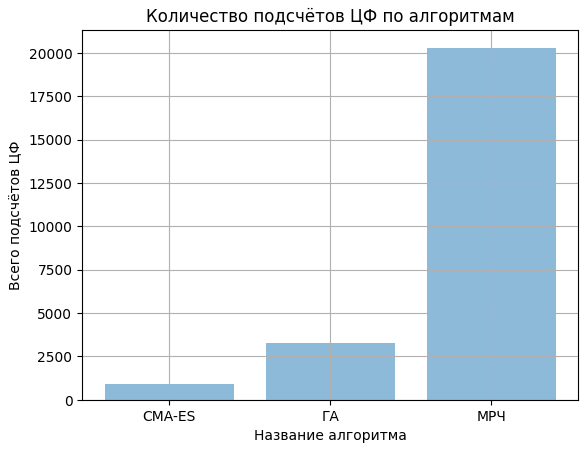
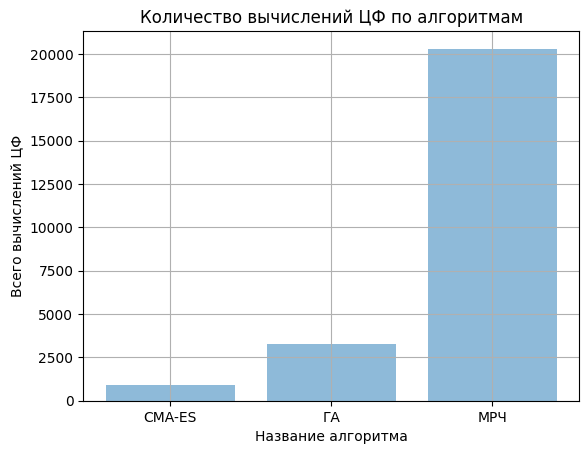
fixes done

Changed region(s): [[0.0, 0.0, 1.0, 0.9933], [0.6769, 0.7761, 0.7385, 0.8071]]

diff --git a/vkr/my_folder/chapter1.tex b/vkr/my_folder/chapter1.tex
@@ -8,7 +8,7 @@
 На сегодняшний день уже существуют различные способы решения проблемы расчётов режимов СО. У каждого из способов есть свои преимущества и недостатки. Естественно заметить, что длительности действия сигналов светофоров должны устанавливаться в соответствии имеющимся на дорожном участке потоком машин.\\
 Например, в \cite{fuzzy-logic} предлагается следующий подход. Каждому из перекрестков на дорожном участке ставится в соответствие светофорный объект. Для каждого СО вводятся два т.н. агента:
 \begin{itemize}
-	\item Первый агент отвечает за изменение последовательностей фаз СО. Использует Deep Q-Learning Algorithm.
+	\item Первый агент отвечает за изменение последовательностей фаз СО. Использует Q-Learning \cite{Q-learning-ref} - один из видов машинного обучения с подкреплением;
 	\item Второй агент отвечает за изменение длительности действия зелёного сигнала. Использует алгоритм, основанный на нечеткой логике.
 \end{itemize}
 Подход применяется к каждому отдельно взятому СО. Данные о дорожном трафике контролируются камерами наблюдения, установленными на каждом из перекрестков.\\
@@ -16,23 +16,35 @@
 Вместо микромоделирования реализован следующий подход: на основании исторических данных о дорожном трафике предлагается предсказать, какое количество ТС пересечёт перекрёсток в течение действия каждой из фаз в будущем, и использовать эти данные на каждом шаге изложенного в работе алгоритма.\\
 Ещё одним вариантом решения проблемы является подход, представленный в  \cite{machine-learning}. Выполняется микромоделирование трафика на дорожном участке при помощи TSF-модели \cite{gora-tsf}. К сожалению, с расширением дорожной сети время вычисления ЦФ кратно увеличивается, поэтому для его снижения используются суррогатные модели на основе нейросети или модели, построенные при помощи градиентного бустинга \cite{grad-boosting}. Оптимизация длительностей фаз производится алгоритмами оптимизации, такими как генетический алгоритм, метод имитации отжига и др.\\
 Трафик предлагается моделировать при помощи данных, собранных спутниками,  или при помощи Floating Car Data (FCD).\\
-Подход, описанный в \cite{Sun2006BilevelPF}, представляет проблему расчётов режимов СО как двухуровневую задачу оптимизации. Задачей верхнего уровня является расстановка длительностей действия сигналов, а задачей нижнего уровня - распределение маршрутов ТС с помощью Logit-модели принятия решений.\\
-Примером подходов с весьма значительными допущениями, такими как:
+Подход, описанный в \cite{Sun2006BilevelPF}, представляет проблему расчётов режимов СО как двухуровневую задачу оптимизации. Задачей верхнего уровня является расстановка длительностей действия сигналов, а задачей нижнего уровня - распределение маршрутов ТС с помощью Logit-модели принятия решений. Данные о трафике представлены в виде матрицы корреспонденций.\\
+Методологии, предложенные в статьях \cite{Chen2007AlgorithmsFT} и \cite{PSO-weak}, похожи и заключаются в следующем: 
 \begin{itemize}
-	\item Прохождение только одной машины через перекресток в текущий момент времени.
-	\item Ограничение на количество сигналов: только красный и зелёный.
-	\item Ограничение на количество дорожных полос.
-	\item Обязательное равенство времени действия красного и зелёного сигналов.
-	\item Ограничение на количество фаз: две.
-	\item Обязательное равенство длительностей фаз.
+	\item Дорожная сеть задана с помощью ориентированного графа;
+	\item Поток ТС задаётся при помощи дискретных моделей. Авторы статьи \cite{PSO-weak} используют для задания потока ТС NaSch модель \cite{Na-Sch-ref} с модификациями;
+	\item В работе \cite{Chen2007AlgorithmsFT} команда исследователей предлагает собственную дискретную модель:
+	\begin{itemize}
+		\item Перед каждым перекрестком для каждой из дорожных полос входящий поток машин задаётся при помощи массива из нулей и единиц;
+		\item Единица означает, что на текущей "единице дистанции" $ $ есть ТС, 0 означает, что ТС на ней отсутствует;
+		\item Каждое ТС проезжает одну "единицу дистанции" $ $ за одну "единицу времени".
+	\end{itemize}
+	\item Если ТС простаивает во время активности красного сигнала СО или из-за впереди стоящих ТС, то генерируется штраф;
+	\item Целевой функцией является сумма всех штрафов для всех машин. Минимизируется ЦФ при помощи эвристических алгоритмов оптимизации: генетический алгоритм, алгоритм колонии муравьев, метода роя частиц и пр.
 \end{itemize}
-являются статьи \cite{Chen2007AlgorithmsFT} и \cite{PSO-weak}.\\
+
+Имеют место значительные допущения:
+\begin{itemize}
+	\item Допустимы только красный и зелёный сигналы СО;
+	\item Обязательно равные длительности действия сигналов СО;
+	\item Каждая из дорог может иметь только две полосы;
+	\item В работе \cite{PSO-weak} реализовано только однополосное движение.
+\end{itemize}
+\newpage
 В данной работе предлагается избавиться от недостатков подходов к решению проблемы, описанных выше, следующим образом:
 \begin{itemize}
-		\item Построить точную микромодель. Поток ТС смоделировать на основании реальных данных, полученных с дорожных радиодетекторов. Расстановки сигналов СО, времена длительностей фаз построить по паспортам СО. Данные о дорожной разметке на исследуемом участке взять из открытых источников (Google Maps, Яндекс Карты).
-		\item Не использовать суррогатные модели, чтобы не терять в точности полученного решения. Для приемлемого времени работы алгоритмов не использовать модели больших дорожных участков.
-		\item Снять ограничения на длительности фаз, количество и цвет сигналов.
-		\item Использования наиболее эффективной модели движения автомобильного трафика "разумного водителя" $ $ (Intelligent Driver Model, IDM).
+		\item Смоделировать исследуемый участок дороги при помощи фреймворка SUMO. Данные о дорожной разметке на взять из открытых источников (Google Maps, Яндекс Карты). Поток ТС задать с помощью реальных данных, полученных с дорожных радиодетекторов. Расстановки сигналов (состояния) взять из паспортов СО;
+		\item Не использовать суррогатные модели, чтобы не терять в точности полученного решения. Для приемлемого времени работы алгоритмов не использовать модели больших дорожных участков;
+		\item Снять ограничения на длительности фаз, количество и цвет сигналов;
+		\item Использовать наиболее реалистичную модель движения автомобильного трафика "разумного водителя" $ $ (Intelligent Driver Model, IDM \cite{book-Gasnikov}).
 \end{itemize}
 \newpage
 \section{Задание дорожной сети}
@@ -75,19 +87,19 @@
 \end{m-definition}
 Введём три вида сигналов:
 \begin{itemize}
-	\item \textit{Красный} - предупреждает о том, что движение потока ТС должно быть приостановлено в течение времени активности сигнала.
-	\item \textit{Желтый} - информирует о предстоящей смене красного сигнала на зелёный.
-	\item \textit{Зелёный} - разрешает дальнейшее движение ТС по дорожной сети.
+	\item \textit{Красный} - предупреждает о том, что движение потока ТС должно быть приостановлено в течение времени активности сигнала;
+	\item \textit{Желтый} - информирует о предстоящей смене красного сигнала на зелёный;
+	\item \textit{Зелёный} - разрешает дальнейшее движение ТС по соответствующей дорожной полосе.
 \end{itemize}
 
 Объединим сигналы в множество $\mathcal{L} = \{ l_i \}, \ i = 1, \ldots, M, \ M \in \mathbb{N}.$\\
 Для уточнения, каким образом сигналы управляют потоком на инцидентных входящих дугах, введём определение фазы.
 \begin{m-definition}
-	Фаза - это пара, содержащая \textit{состояние} $l$-го светофорного объекта, поддерживаемое СО в течение времени действия фазы $t_{lk}$, и само время действия фазы $t_{lk}$, где $k$ - номер фазы $k \in 0, \ldots, K$. 
+	Фаза $p_{lk}$- это $k$-ое, $ k \in 0, \ldots, K, k \in \mathbb{N}$ \textit{состояние} $l$-го СО, поддерживаемое в течение времени $t_{lk}$, \ $t_{\min} \leq t_{lk} \leq t_{\max}$, \ $[t_{lk}] = \text{с}$.
 \end{m-definition}
-Допустимо различное количество фаз для различных светофоров.
+Допустимо различное количество фаз для различных СО.
 \begin{m-definition}
-	Под \textit{состоянием} понимается совокупность влияний сигнала $l_i$ на дуги $e_j, \  j \in \{1,\ldots, N\}$ в фазе $t_{lk}$, $t_{\min} \leq t_{lk} \leq t_{\max}$, \ $[t_{lk}] = \text{с}$.\\
+	Под \textit{состоянием} понимается совокупность влияний сигнала $l_i$ на инцидентные входящие в $l$-ый СО дуги $e_j$ в фазе $p_{lk}$.\\
 \end{m-definition}
 Предлагается применить алгоритмы оптимизации к временам действия фаз $t_{lk}$.\\
 \input{my_folder/tex/separate-states-three-in-one} 
@@ -96,17 +108,18 @@
 		\scriptstyle l & \scriptstyle \in 1,\ldots, N,\\
 		\scriptstyle k & \scriptstyle \in 0, \ldots, K
 \end{aligned}}, X \in \mathbb{R}^{N\times K}$ вектор, содержащий длительности фаз светофорных объектов.\\
+\newpage
 Введём:
 \begin{itemize}
-	\item $T$ - продолжительность времени симуляции трафика.
-	\item $N$ - количество ТС, преодолевших полные намеченные пути (маршруты) за время $T$.
+	\item $T$ - продолжительность времени симуляции трафика, $[T] = \text{с}$.
+	\item $\mathcal{N}$ - количество ТС, преодолевших полные намеченные пути (маршруты) за время $T$.
 \end{itemize}
 \begin{m-definition}
 	\textit{Временем ожидания} (\textit{простоя}) $\tau_i(X)$ $i$-ого ТС назовём время, в течение которого скорость $v$ ТС удовлетворяет ограничению $v < 0.1 \ \frac{\text{м}}{\text{c}}$.\\
 \end{m-definition}
 Пусть $\tau_i$ - время ожидания $i$-ой машины. Тогда
 \begin{equation}
-	\displaystyle f(X) = \frac{\sum\limits_{i = 1}^{N}\tau_i}{N}
+	\displaystyle f(X) = \frac{\sum\limits_{i = 1}^{\mathcal{N}}\tau_i}{\mathcal{N}}
 \end{equation} - функция цели.
 Тогда в финальном виде задача оптимизации будет выглядеть следующим образом:
 \begin{equation}

diff --git a/vkr/my_folder/chapter5.tex b/vkr/my_folder/chapter5.tex
@@ -12,12 +12,12 @@
 \input{my_folder/tex/detectors-positions.tex}
 \input{my_folder/tex/sumo-gui-roadmap}
 \newpage
-На \firef{fig:detectors-setting} желтым обозначены позиции детекторов, содерщащих информацию о количестве машин в вершинах-источниках и вершинах-стоках.
+На \firef{fig:detectors-setting} желтым обозначены позиции детекторов, содержащих информацию о количестве машин в вершинах-источниках и вершинах-стоках.
 \input{my_folder/tex/detectors-setting}
 
 \subsection{Определение состояний}
 Информация о направлениях движения, регулируемых светофорными объектами 1 и 2, представлена в паспортах СО соответственно.\\
-Отметим, что оптимизация фаз, связанных с движением пешеходов, не производится. Время, отведённое под движение пешеходов,взято как исходное константное значение из паспорта.
+Отметим, что оптимизация фаз, связанных с движением пешеходов, не производится. Время,  отведённое под движение пешеходов,взято как исходное константное значение из паспорта.
 
 На \firef{fig:linked-phase-d} представлены направления пешеходного движения.\\
 \input{my_folder/tex/linked-md-four-in-one.tex}
@@ -28,16 +28,16 @@
 
 \newpage
 \section{Результаты оптимизации}
-В таблице \taref{tab:opt-res} отображены результаты запусков алгоритмов оптимизации.\\
+В таблице \taref{tab:opt-res} отображены результаты работы алгоритмов оптимизации.\\
 В заголовке таблицы использованы следующие обозначения:
 \begin{itemize}
-	\item Наз.алг - название алгоритма.
-	\item $X_{opt}$ - решение задачи оптимизации \labelcref{eq:goal-function}.
-	\item  $f(X_{opt})$ - значение ЦФ в $X_{opt}$, [c].
-	\item $I$ - количество итераций (поколений, популяций).
-	\item $N_{f}$ - количество подсчётов ЦФ.
-	\item $T_{\text{общ}}$ - общее время работы алгоритма [c].
-	\item $T_{i}$ - среднее время подсчётов ЦФ на текущей итерации [c].
+	\item Наз.алг - название алгоритма;
+	\item $X_{opt}$ - решение задачи оптимизации \labelcref{eq:goal-function};
+	\item  $f(X_{opt})$ - значение ЦФ в $X_{opt}$, [c];
+	\item $I$ - количество итераций (поколений, популяций);
+	\item $N_{f}$ - количество вычислений ЦФ;
+	\item $T_{\text{общ}}$ - общее время работы алгоритма [c];
+	\item $T_{i}$ - среднее время вычислений ЦФ на текущей итерации [c];
 	\item $N_{e}$ - количество машин, к концу симуляции завершивших намеченные маршруты.
 \end{itemize}
 Заметим, что на основе паспортов СО длительности фаз выглядят следующим образом:\begin{equation}
@@ -45,50 +45,49 @@
 \end{equation}
 Количество машин, предзагруженных в симуляцию на основе данных с детекторов, $N_c = 5959$.\\
 Временной интервал симуляции: 06:00-09:00, время по счётчику SUMO --begin 0 --end 10800 (3ч).\\
+Ограничения задачи - интервал возможной длительности сигналов СО задан следующим образом: $[t_{\min}, t_{\max}] = [20, 70]$.\\
 \input{my_folder/tex/tab-opt-res.tex}
 \input{my_folder/tex/plot-hist-opt.tex}
 \newpage
 \section{Выводы} \label{ch4:conclusion}
 
-По \taref{tab:opt-res} естественно заметить, что от эксперимента к эксперименту количество  хромосом, частиц, решений могло меняться для ГА, МРЧ, CMA-ES соответственно. Без потери смысловой нагрузки произведем сравнение подсчётов ЦФ в алгоритмах.\\
+По \taref{tab:opt-res} естественно заметить, что от эксперимента к эксперименту количество  хромосом, частиц, решений могло меняться для ГА, МРЧ, CMA-ES соответственно. Без потери смысловой нагрузки произведем сравнение количества вычислений ЦФ в алгоритмах.\\
 Поэтому разумно представить гиперпараметры, общие для всех вариантов запуска алгоритмов.\\
 Гиперпараметры ГА при запуске:
 \begin{itemize}
-	\item Количество скрещивающихся родителей - половина от общего числа популяции.
-	\item Мутация - случайная.
+	\item Количество скрещивающихся родителей - половина от общего числа популяции;
+	\item Мутация - случайная;
 	\item Шанс мутации - $10\%$.
 \end{itemize}
 Гиперпараметры МРЧ при запуске:
 \begin{itemize}
-	\item $\omega = 0.5069$, $\varphi_p = 2.5524$, $\varphi_g = 1.0056$.
+	\item $\omega = 0.5069$, $\varphi_p = 2.5524$, $\varphi_g = 1.0056$;
 	\item $S = 203$.
 \end{itemize}
 Гиперпараметры CMA-ES при запуске:
 \begin{itemize}
-	\item $\sigma_0 = 5$.
+	\item $\sigma_0 = 5$;
 	\item $X_0 = [65, 35, 20, 40, 22, 34]$. Здесь $X_0$ - начальное решение.
 \end{itemize}
+\newpage
 Из \taref{tab:opt-res} видно, что:
 \begin{itemize}
-	\item Лучшее решение было получено при помощи алгоритма МРЧ $f(X_{opt}) = 60.2$
-	\item Лучшее решение МРЧ получено при установке гиперпараметров на основании \taref{tab:tab-pso-opt-params} с
-	 $50\%$ увеличением количества подсчётов ЦФ.
-	 \item Самое оптимальное решение, полученное при помощи МРЧ, требует в $\approx 13.5$ больше подсчётов ЦФ, чем самое оптимальное решение, полученное при помощи CMA-ES.
-	 \item Самое оптимальное решение, полученное при помощи МРЧ, требует в $4.64$ раз больше подсчётов ЦФ, чем самое оптимальное решение, полученное при помощи ГЕН.
-	 \item Самое оптимальное решение, полученное при помощи МРЧ, на $\approx 1.75\%$ лучше, чем самое оптимальное решение, полученное при помощи CMA-ES.
-	 \item Самое оптимальное решение, полученное при помощи МРЧ, на $\approx 3.79\%$ лучше, чем самое оптимальное решение, полученное при помощи ГЕН.
-	%\item МРЧ требует в $\approx 11.2$ раз больше подсчётов ЦФ по сравнению с CMA-ES, но выдаёт более %точное решение на $2,1\%$.
-	\item В порядке использования вычислительно-временных ресурсов алгоритмы располагаются следующим образом :
-	CMA-ES, ГА, МРЧ от лучшего к худшему.
+	\item Лучшее решение было получено при помощи алгоритма МРЧ $f(X_{opt}) = 60.2$;
+	\item Лучшее решение МРЧ получено при установке гиперпараметров на основании \taref{tab:tab-pso-opt-params} с $50\%$ увеличением количества вычислений ЦФ;
+	\item Самое оптимальное решение, полученное при помощи МРЧ, требует в $\approx 13.5$ больше вычислений ЦФ, чем самое оптимальное решение, полученное при помощи CMA-ES;
+	\item Самое оптимальное решение, полученное при помощи МРЧ, требует в $4.64$ раз больше вычислений ЦФ, чем самое оптимальное решение, полученное при помощи ГА;
+	\item Самое оптимальное решение, полученное при помощи МРЧ, на $\approx 1.75\%$ лучше, чем самое оптимальное решение, полученное при помощи CMA-ES;
+	\item Самое оптимальное решение, полученное при помощи МРЧ, на $\approx 3.79\%$ лучше, чем самое оптимальное решение, полученное при помощи ГА;
+	\item В порядке использования вычислительно-временных ресурсов алгоритмы располагаются следующим образом : CMA-ES, ГА, МРЧ от лучшего к худшему;
 	\item В порядке качества полученного решения алгоритмы располагаются 
 	МРЧ, CMA-ES, ГА,  от лучшего к худшему.
 \end{itemize}
-Графики \firef{fig:ch-wd}, \firef{fig:hist-wd}, \firef{fig:hist-times-wd} построены на основании данных из \taref{tab:opt-res} при $I = 100$. График генетического алгоритма построен на данных, полученных при подсчёте ЦФ $f(X_{opt}) = 62.39$ из таблицы.\\
+Графики \firef{fig:ch-wd}, \firef{fig:hist-wd}, \firef{fig:hist-times-wd} построены на основании данных из \taref{tab:opt-res} при $I = 100$. График генетического алгоритма построен на данных, полученных в процессе вычисления значения ЦФ $f(X_{opt}) = 62.39$ из таблицы.\\
 \firef{fig:ch-wd} является наглядным представлением требования МРЧ большого количества вычислительных ресурсов.
 Результаты, полученные на выходе алгоритмов оптимизации в сравнении с \eqref{eq:src}, представляют возможность сделать следующие выводы:
 \begin{itemize}
-	\item Лучшее решение, полученное с помощью МРЧ, лучше исходного на $18 \%$.
-	\item Лучшее решение, полученное с помощью CMA-ES, лучше исходного на $ 16.5\%$.
+	\item Лучшее решение, полученное с помощью МРЧ, лучше исходного на $18 \%$;
+	\item Лучшее решение, полученное с помощью CMA-ES, лучше исходного на $ 16.5\%$;
 	\item Лучшее решение, полученное с помощью ГА, лучше исходного на $ 15\%$.
 \end{itemize}
 %% Вспомогательные команды - Additional commands

diff --git a/vkr/my_folder/chapter3.tex b/vkr/my_folder/chapter3.tex
@@ -7,8 +7,8 @@
 Предобработка данных производилась средствами языка Python 3.11.8.
 Применены библиотеки:
 \begin{itemize}
-	\item \textbf{pandas} - для форматирования, валидации и  объемов данных.
-	\item \textbf{csv} - для работы с исходными файлами, содержащими данные, в формате csv.
+	\item \textbf{pandas} - для форматирования и валидации объемов данных;
+	\item \textbf{csv} - для вывода обработанных данных, используемых для создания симуляции.
 \end{itemize}
 \section{Алгоритмы оптимизации}
 \begin{itemize}
@@ -17,29 +17,28 @@
 \section{Симуляция движения ТС}
 Реализована на базе фреймворка SUMO.
 \begin{itemize}
-	\item \textbf{dfrouter} - скрипт для создания путей (маршрутов) по информации о местоположении детекторов, с которых были собраны данные о трафике.
-	\item \textbf{osmWebWizard} - инструмент для "one-click" конвертации реальной дорожной карты в $G(V, E)$.
-	\item \textbf{netedit} - инструмент для редактирования результатов работы osmWebWizard, а также добавления светофорной логики, мест установки детекторов на карту.
-	\item \textbf{sumo} - инструмент для запуска симуляции с заданными маршрутами, дорожной картой и сгенерированными длительностями фаз СО $X$. Результатом работы sumo являются данные о значении целевой функции и другие параметры для оценки сгенерированного решения $X$.
+	\item \textbf{dfrouter} - скрипт для создания путей (маршрутов) по информации о местоположении детекторов, с которых были собраны данные о трафике;
+	\item \textbf{osmWebWizard} - инструмент для "one-click" $ $ конвертации реальной дорожной карты в $G(V, E)$;
+	\item \textbf{netedit} - инструмент для редактирования результатов работы osmWebWizard, а также добавления светофорной логики, мест установки детекторов на карту;
+	\item \textbf{sumo} - инструмент для запуска симуляции с заданными маршрутами, дорожной картой и сгенерированными длительностями фаз СО $X$. Результатом работы sumo являются данные о значении целевой функции и другие параметры для оценки сгенерированного решения $X$;
 	\item \textbf{sumo-gui} - графическое представление симуляции для визуальной оценки результатов оптимизации.
 	
 \end{itemize}
 
 \section{Общие утилиты и пакеты}	
 \begin{itemize}
-	\item \textbf{xml.etree.ElementTree} - обработка логов \textbf{sumo}.
-	\item  \textbf{os} - для работы с файловой системой ОС.
-	\item \textbf{argparse} - парсинг аргументов командной строки.
-	\item \textbf{subprocess} - для запуска симуляций \textbf{sumo} и работы с оперативной памятью.
+	\item \textbf{xml.etree.ElementTree} - обработка логов \textbf{sumo};
+	\item  \textbf{os} - для работы с файловой системой ОС;
+	\item \textbf{argparse} - парсинг аргументов командной строки;
+	\item \textbf{subprocess} - для запуска симуляций \textbf{sumo} и работы с оперативной памятью;
 	\item \textbf{ProcessPoolExecutor} - для параллельного вычисления ЦФ.
 \end{itemize}
 \section{Аппаратное и программное обеспечения}
 Расчёт режимов работы СО производился при помощи процессора AMD Ryzen 7 PRO 2700 3.2 GHz Eight-Core Sixteen-Thread 16M L3.\\
-Количество потоков, отведённых под работу программ, - 15.
 \begin{itemize}
-	\item Операционная система: Arch Linux                      
-	\item Ядро: Linux 6.8.5-zen1-1-zen
-	\item Разрядность: x86-64
+	\item Операционная система: Arch Linux;                   
+	\item Ядро: Linux 6.8.5-zen1-1-zen;
+	\item Разрядность: x86-64.
 \end{itemize}
 
 \subsection{UML - представление рабочего процесса}

diff --git a/vkr/my_folder/tex/tab-opt-res.tex b/vkr/my_folder/tex/tab-opt-res.tex
@@ -15,13 +15,13 @@
 	CMA-ES&[59, 37, 22, 34, 37, 32]&63.85&250&2250&1004.94&4.02&5472\\ \hline
 	CMA-ES&[58, 40, 20, 39, 32, 34]&65.36&250&2250&998.58&3.99&5314\\ \hline
 	CMA-ES&[56, 35, 27, 25, 41, 38]&65.12&250&2250&985.96&3.94&5186\\ \hline
-	ГЕН&[51, 38, 29, 32, 47, 40]&62.39&100&3281&1372.01&13.72&5407 \\ \hline
-	ГЕН&[55, 43, 20, 52, 27, 38]&64.05&100&2945&1221.41&12.21&5114\\ \hline
-	ГЕН&[60, 37, 21, 37, 37, 43]&63.83&100&3108&1281.66&12.82&5305\\ \hline
-	ГЕН&[51, 34, 33, 39, 41, 37]&63.69&250&7545&3298.57&13.19&5624\\ \hline
-	ГЕН&[57, 35, 23, 40, 38, 39]&64.75&250&7851&3305.79&13.22&5470\\ \hline
-	ГЕН&[55, 34, 29, 29, 45, 43]&62.75&250&7568&3162.45&12.65&5295\\ \hline
-	ГЕН&[58, 40, 20, 28, 47, 42]&62.77&300&8076&3396.7&11.32&5066\\ \hline
+	ГА&[51, 38, 29, 32, 47, 40]&62.39&100&3281&1372.01&13.72&5407 \\ \hline
+	ГА&[55, 43, 20, 52, 27, 38]&64.05&100&2945&1221.41&12.21&5114\\ \hline
+	ГА&[60, 37, 21, 37, 37, 43]&63.83&100&3108&1281.66&12.82&5305\\ \hline
+	ГА&[51, 34, 33, 39, 41, 37]&63.69&250&7545&3298.57&13.19&5624\\ \hline
+	ГА&[57, 35, 23, 40, 38, 39]&64.75&250&7851&3305.79&13.22&5470\\ \hline
+	ГА&[55, 34, 29, 29, 45, 43]&62.75&250&7568&3162.45&12.65&5295\\ \hline
+	ГА&[58, 40, 20, 28, 47, 42]&62.77&300&8076&3396.7&11.32&5066\\ \hline
 	МРЧ&[53, 39, 26, 28, 48, 43]&61.23&50&10150&3932.94&78.66&5221\\ \hline
 	МРЧ&[50, 39, 29, 49, 34, 35]&60.04&50&10150&3917.7&78.35&5602\\ \hline
 	МРЧ&[48, 42, 28, 50, 29, 39]&61.56&50&10150&3922.45&78.45&5358\\ \hline

diff --git a/vkr/my_folder/chapter4.tex b/vkr/my_folder/chapter4.tex
@@ -1,7 +1,7 @@
 \chapter{Сводка данных о трафике} \label{ch4}
 Введём показатели:
 \begin{itemize}
-	\item \textbf{Volume} - интенсивность движения за 5 мин \bigg[$\frac{\text{ед}}{\text{5 мин}}$\bigg].
+	\item \textbf{Volume} - интенсивность движения за 5 мин \bigg[$\frac{\text{ед}}{\text{5 мин}}$\bigg];
 	\item \textbf{Speed} - средняя скорость транспортных средств за 5 мин \bigg[$\frac{\text{км}}{\text{ч}}$\bigg].
 \end{itemize}
 Отметим, что рассматриваются следующие временные интервалы: дата 01.02.2024-21.02.2024, время 06:00-09:00.\\
@@ -12,12 +12,12 @@
 \newpage
 На \firef{fig:900700-time-many-boxplots-vol} отображена интенсивность по будним дням по временным интервалам с 06:00 до 09:00. Частота агрегации - 5 минут.
 \begin{itemize}
-	\item По оси $x$ расположены временные интервалы.
+	\item По оси $x$ расположены временные интервалы;
 	\item По оси $y$ расположены боксплоты, отображающие значения интенсивности в момент времени $x$ по будням.
 \end{itemize}
 На \firef{fig:900700-time-many-boxplots-speed} отображена средяя по будним дням скорость ТС по временным интервалам с 06:00 до 09:00. Частота агрегации - 5 минут.
 \begin{itemize}
-	\item По оси $x$ расположены временные интервалы.
+	\item По оси $x$ расположены временные интервалы;
 	\item По оси $y$ расположены боксплоты, отображающие значения средней скорости в момент времени $x$ по будням.
 \end{itemize}
 \input{my_folder/tex/many-boxplots-time.tex}
@@ -25,12 +25,12 @@
 \input{my_folder/tex/many-boxplots-wd.tex}
 На \firef{fig:900700-wd-many-boxplots-vol} отображены значения интенсивности трафика по будним дням.
 \begin{itemize}
-	\item По оси $x$ расположены дни.
+	\item По оси $x$ расположены дни;
 	\item По оси $y$ расположены значения интенсивности по временным интервалам с 06:00 по 09:00.
 \end{itemize}
 На \firef{fig:900700-wd-many-boxplots-speed} отображены значения средней скорости трафика по будним дням.
 \begin{itemize}
-	\item По оси $x$ расположены дни.
+	\item По оси $x$ расположены дни;
 	\item По оси $y$ расположены значения средней скорости по временным интервалам с 06:00 по 09:00.
 \end{itemize}
 

diff --git a/vkr/my_folder/conclusion.tex b/vkr/my_folder/conclusion.tex
@@ -5,10 +5,10 @@
 Получен программный продукт, позволяющий рассчитать оптимальные длительности фаз светофорных объектов.\\
 На основании реальных данных, таких как:
 \begin{itemize}
-	\item Паспорта СО, содерщащие информацию о текущей длительности фаз.
-	\item Информация об интенсивности и средней скорости на исследуемом дорожном участке, зафиксированная радиодетекторами.
+	\item Паспорта СО, содержащие информацию о состояниях СО, длительностях действия фаз;
+	\item Информация об интенсивности и средней скорости на исследуемом дорожном участке, зафиксированная радиодетекторами;
 	\item Информация о дорожной разметке.
 \end{itemize}
-была построена модель дорожного участка, смоделировано движение автомобильного трафика и исследовано влияние длительностей фаз СО на время среднее простоя автомобиля в пробке. Предложен новый вариант расстановки длительностей фаз СО, который лучше референсного на $18\%$.\\
+была построена модель дорожного участка, задано движение автомобильного трафика. Исследовано влияние длительностей фаз СО на среднее время простоя автомобиля на ислледуемом дорожном участке. Предложен новый вариант расстановки длительностей фаз СО, который лучше исходного на $18\%$.\\
 Также произведено сравнение эффективности работы алгоритмов оптимизации.\\
-Результаты исследования подтвердили факт скорости работы CMA-ES, позиционируемого как быстрый современный алгоритм "black-box"$\ $оптимизации. ГА представляет среднее по качеству решение при средней скорости работы. МРЧ требует, в сравнении с остальными алгоритмами оптимизации, колоссальный объем вычислительных ресурсов, которые окупаются самым точным решением.\\
+Результаты исследования подтвердили факт скорости работы CMA-ES, позиционируемого как быстрый современный алгоритм "black-box"$\ $оптимизации. ГА представляет среднее по качеству решение при средней скорости работы. МРЧ требует, в сравнении с остальными алгоритмами оптимизации, значительно больший объем вычислительных ресурсов, однако предоставляет самое оптимальное решение.\\

diff --git a/utils.py b/utils.py
@@ -92,7 +92,7 @@ def dump_data(output_path, row):
         csv_writer.writerow(row)
 
 def plot(simulation_name, plot_name):
-    annotations = {'gen': 'ГЕН', 'pso': 'МРЧ', 'cmaes': 'CMA-ES'}
+    annotations = {'gen': 'ГА', 'pso': 'МРЧ', 'cmaes': 'CMA-ES'}
     if plot_name == ch_iter_time:
         csv_data_list = []
         fig, ax = plt.subplots(2, 1, figsize=(8, 6))
@@ -146,8 +146,8 @@ def histogram():
     plt.figure()
     plt.bar(total_evals.keys(), total_evals.values(), alpha=0.5)
     plt.xlabel('Название алгоритма')
-    plt.ylabel('Всего подсчётов ЦФ')
-    plt.title('Количество подсчётов ЦФ по алгоритмам')
+    plt.ylabel('Всего вычислений ЦФ')
+    plt.title('Количество вычислений ЦФ по алгоритмам')
     plt.grid(True)
 
     plt.figure()

diff --git a/vkr/my_folder/tex/plot-hist-opt.tex b/vkr/my_folder/tex/plot-hist-opt.tex
@@ -11,7 +11,7 @@
     \includegraphics[height=0.38\textheight,valign=t]{my_folder/images//evalsall.png}
     
 \captionsetup{justification=centering} %центрировать
-\caption{Гистограмма, содержащая общее количество подсчётов ЦФ $N_f$} \label{fig:hist-wd}
+\caption{Гистограмма, отображающая $N_f$} \label{fig:hist-wd}
 \end{figure}
 
 \begin{figure}[!htbp]
@@ -19,5 +19,5 @@
     \includegraphics[height=0.38\textheight,valign=t]{my_folder/images//total-times.png}
     
 \captionsetup{justification=centering} %центрировать
-\caption{Гистограмма, содержащая общее время работы $T_{\text{общ}}$} \label{fig:hist-times-wd}
+\caption{Гистограмма, отображающая  $T_{\text{общ}}$} \label{fig:hist-times-wd}
 \end{figure}

diff --git a/vkr/my_folder/chapter2.tex b/vkr/my_folder/chapter2.tex
@@ -12,7 +12,7 @@
 \subsection{Псевдокод генетического алгоритма}
 	\input{my_folder/tex/pseudocode-gen} % пример оформления псевдокода алгоритма 	
 \section{Метод роя частиц}
-Метод роя частиц представляет собой метаэвристический алгоритм оптимизации, который основан на моделировании поведения роя в природе.\\
+Метод роя частиц представляет собой эвристический алгоритм оптимизации, который основан на моделировании поведения роя в природе.\\
 Основная идея PSO заключается в моделировании каждого потенциального решения (частицы) как точки в многомерном пространстве. Эти частицы перемещаются по пространству поиска с целью нахождения наилучшего решения, основываясь на лучшем решении, которое было найдено ими сами и другими частицами в прошлом.
 \subsection{Псевдокод метода роя частиц}
 \input{my_folder/tex/pseudocode-pso}

diff --git a/vkr/my_folder/introduction.tex b/vkr/my_folder/introduction.tex
@@ -2,7 +2,7 @@
 
 \addcontentsline{toc}{chapter}{Введение} % вносим в содержание
 
-Светофорные объекты (светофоры) - это ключевой элемент инфраструктуры на дорожных участках.
+Светофорные объекты (СО) - это ключевой элемент инфраструктуры на дорожных участках.
 
 Естественно заметить, что светофоры организовывают движение транспортных средств, предоставляя им возможность перемещаться по дорогам в соответствии с определенными правилами и приоритетами. Правильно настроенные программы светофорных объектов могут сгладить поток, предотвратить образование заторов и улучшить общую пропускную способность участка дороги.
 